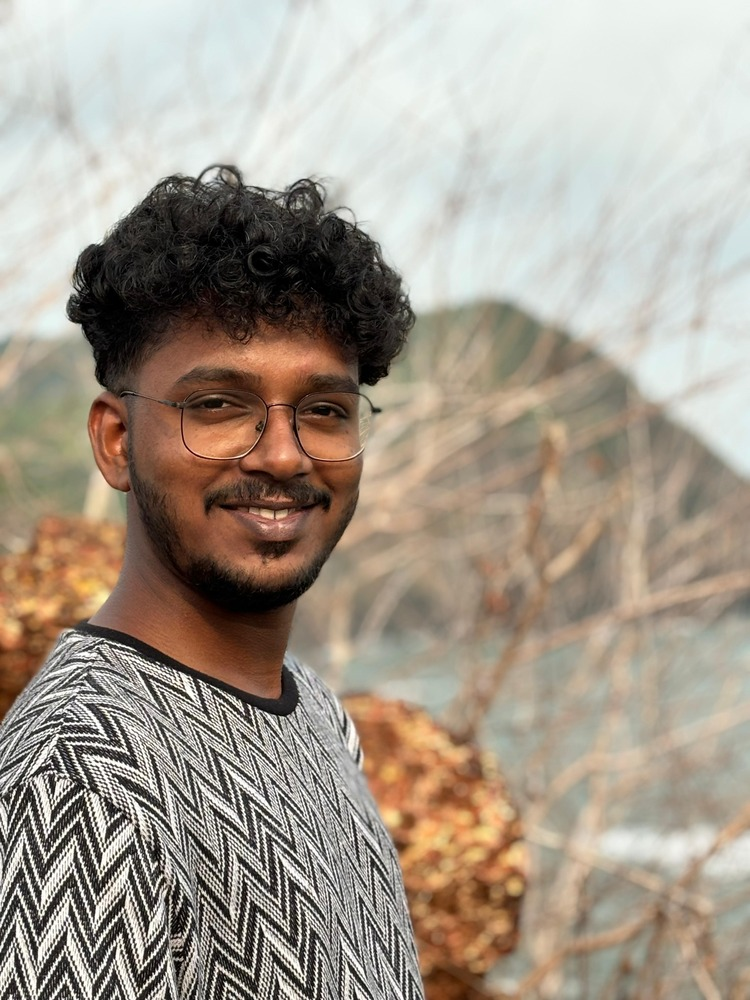
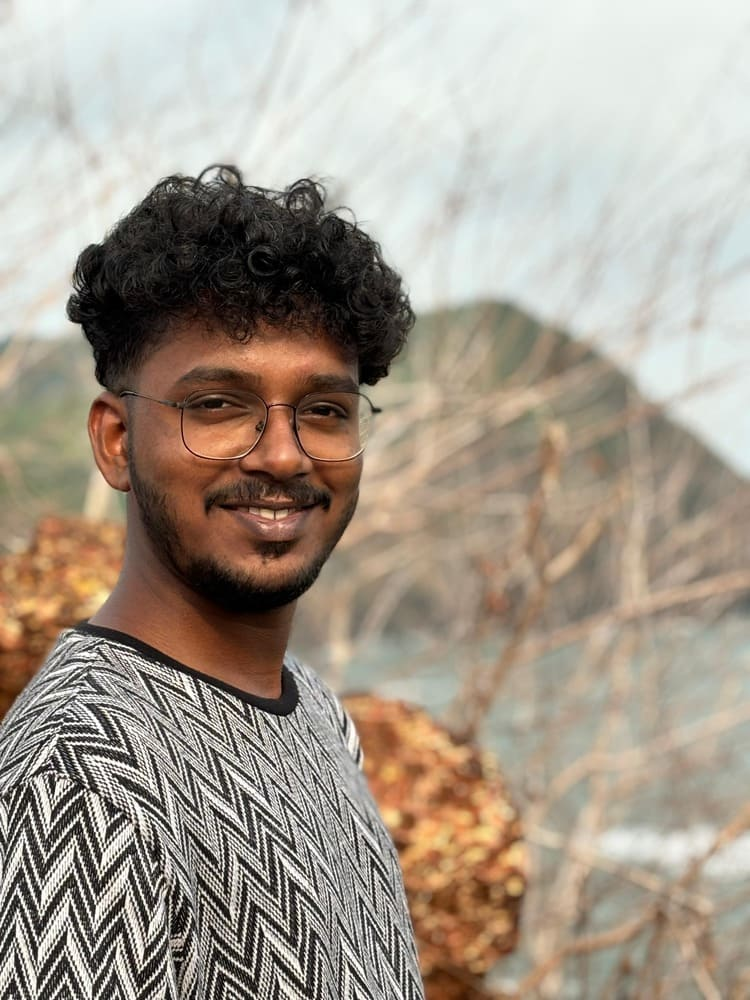
Updated image files and references in HTML

diff --git a/index.html b/index.html
@@ -116,7 +116,7 @@
 
         <section id="profile">
             <div class="section-pic-cont">
-                <img src="./assets/portfoliobg.png" class="portrait-pic" alt="profilepic" />
+                <img src="./assets/portfoliobg.jpg" class="portrait-pic" alt="profilepic" />
             </div>
             <div class="section-text">
                 <p class="section-text-p1">Hi, I'm</p>
@@ -148,7 +148,7 @@
             <h1 class="title">About Me</h1>
             <div class="section-cont">
                 <div class="section-pic-cont">
-                    <img src="./assets/aboutbg.png" alt="profilepic" class="about-pic">
+                    <img src="./assets/aboutbg.jpg" alt="profilepic" class="about-pic">
                 </div>
                 <div class="about-details-cont">
                     <div class="about-cont">
